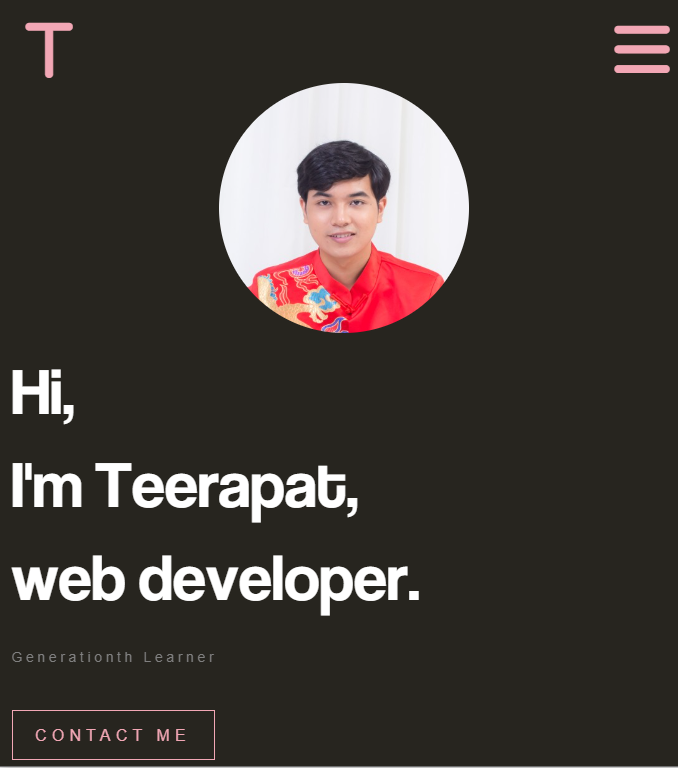
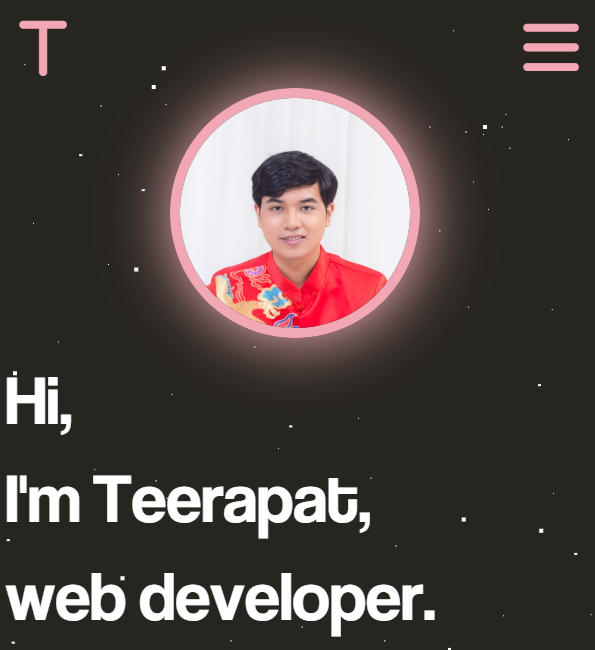
update port img, stars height

diff --git a/src/components/Layout/index.scss b/src/components/Layout/index.scss
@@ -144,7 +144,7 @@
     &:after {
         content: " ";
         position: absolute;
-        top: 2000px;
+        top: 1000px;
         width: 1px;
         height: 1px;
         background: transparent;
@@ -163,7 +163,7 @@
     &:after {
         content: " ";
         position: absolute;
-        top: 2000px;
+        top: 1000px;
         width: 2px;
         height: 2px;
         background: transparent;
@@ -181,7 +181,7 @@
     &:after {
         content: " ";
         position: absolute;
-        top: 2000px;
+        top: 1000px;
         width: 3px;
         height: 3px;
         background: transparent;

diff --git a/src/components/Projects/index.scss b/src/components/Projects/index.scss
@@ -24,7 +24,7 @@
         .images-box {
             position: relative;
             flex: 1 1 30%;
-            height: 400px;
+            height: 350px;
             overflow: hidden;
             border-radius: 10px;
             max-width: calc(28% - 10px);
@@ -35,7 +35,7 @@
                 z-index: 2;
                 width: 100%;
                 height: 100%;
-                object-fit: cover;
+                // object-fit: contain;
             }
 
             .content {
